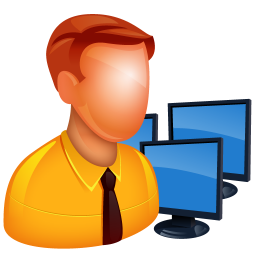
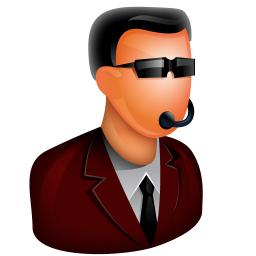
cambios

diff --git a/application/views/usuario/form.php b/application/views/usuario/form.php
@@ -1,17 +1,18 @@
 <script type="text/javascript" src="http://code.jquery.com/jquery-latest.min.js"></script>
 <script type="text/javascript">
 
-  function activate_match()
+  function activate_match($i)
  {
- 	var id = $('select#login').val();
- 	var ruta = "<?php echo base_url()?>assets_sistema/images/gallery/login/login"+id+".jpg";
+ 	var id = $i;
+ 	var ruta = "<?php echo base_url()?>assets_sistema/images/avatars/avatar"+id+".png";
  	document.getElementById('imagen_login').src = ruta;
  	document.getElementById('ref_login').href = ruta;
+ 	document.getElementById('imagen').value = "avatar"+id+".png";
  }
 
 </script>
 
-<?php $ruta_controller = base_url() . "index.php/admin/a_plantilla";?>
+<?php $ruta_controller = base_url() . "index.php/usuario/store";?>
 
 <div class="page-header">
 	<h1>
@@ -26,6 +27,37 @@
 
  <form action="<?php echo $ruta_controller;?>" method="post" enctype="multipart/form-data">
 
+
+ 	<div class="col-xs-12 col-sm-4">
+
+					    <div class="widget-box">
+							<div class="widget-header">
+								<h4 class="widget-title">Imagen Vista Previa</h4>
+							</div>	
+							 <div class="widget-body">
+								 <div class="widget-main">
+									<ul class="ace-thumbnails clearfix text-center" style="list-style-type: none;">
+										<li class="">		
+											<a id="ref_login" href="<?php echo base_url()?>assets_sistema/images/avatars/avatar.png" data-rel="colorbox" class="text-center">
+												
+							<img id = "imagen_login" name= "imagen_login" width="170" height="170" alt="170x170" src="<?php echo base_url()?>assets_sistema/images/avatars/avatar.png"/>
+												
+												<div class="text">
+													<div class="inner">Imagenes</div>
+												</div>
+											</a>
+										</li>
+										<a href="#" class="btn btn-app btn-purple" data-toggle='modal' data-target='#modal_perfil'>
+											<i class="ace-icon fa fa-refresh bigger-230"></i>
+											Cambiar
+										</a>
+									</ul>				
+								</div>
+						  </div>
+					    </div>
+				     </div>
+
+
 					<div class="col-xs-12 col-sm-4">
 						<div class="widget-box">
 							<div class="widget-header">
@@ -39,8 +71,7 @@
 										<span class="badge badge-transparent">
 											<i class="light-red ace-icon fa fa-asterisk"></i>
 										</span>
-										<select class="form-control" id="login" name="login"
-										onchange="activate_match()">		
+									<select class="form-control" id="id_permiso" name="id_permiso">
 										<?php foreach ($perfil as $row) 
 				                        { ?>	 
 									<option value=<?php echo $row->id;?>> <?php echo $row->nombre;?> </option>   
@@ -130,62 +161,7 @@
 					 </div>
 
 
-					 <div class="col-xs-12 col-sm-4">
-						<div class="widget-box">
-							<div class="widget-header">
-								<h4 class="widget-title">Tipo de logueo
-							</div>	
-
-							 <div class="widget-body">
-								 <div class="widget-main">
-									<div>
-										<label for="form-field-select-1">Seleccione</label>
-										<span class="badge badge-transparent">
-											<i class="light-red ace-icon fa fa-asterisk"></i>
-										</span>
-										<select class="form-control" id="login" name="login"
-										onchange="activate_match()">
-											
-										<?php for ($i = 1; $i <= 5; $i++) { 
-
-										if ($tipo == $i){?>
-										<option value=<?php echo $i;?> selected> Tipo <?php echo $i;?> </option>	   
-										<?php }else { ?>
-										<option value=<?php echo $i;?>> Tipo <?php echo $i;?> </option>	   
-										<?php }	
-										?>
-										<?php } ?>						
-						   		        </select>
-								     </div>	
-							     </div>
-							  </div>
-					    </div>
-
-					    <div class="widget-box">
-							<div class="widget-header">
-								<h4 class="widget-title">Imagen Vista Previa</h4>
-							</div>	
-							 <div class="widget-body">
-								 <div class="widget-main">
-									<ul class="ace-thumbnails clearfix text-center" style="list-style-type: none;">
-										<li class="">		
-											<a id="ref_login" href="<?php echo base_url()?>assets_sistema/images/avatars/avatar1.png" data-rel="colorbox" class="text-center">
-												
-												<img id = "imagen_login" width="170" height="170" alt="170x170" src="<?php echo base_url()?>assets_sistema/images/avatars/avatar1.png"/>
-												
-												<div class="text">
-													<div class="inner">Imagenes</div>
-												</div>
-											</a>
-										</li>
-									</ul>				
-								</div>
-						  </div>
-					    </div>
-				     </div>
-
-
-				   <input type="hidden" id="id" name="id" value="<?php echo @$id;?>">
+				   <input type="hidden" id="imagen" name="imagen" value="avatar">
 				   <div class="col-xs-12 text-center">
 	   					<button class="btn btn-rose btn-md radius-4">
 								<i class="ace-icon fa fa-floppy-o bigger-160"></i>
@@ -195,6 +171,40 @@
 
 				   
 </form>
+
+
+<div id="modal_perfil" class="modal fade" role="dialog">
+    <div class="modal-dialog">
+        <!-- Modal content-->
+        <div class="modal-content">
+            <div class="modal-header modalHeader">
+                <button type="button" class="close" data-dismiss="modal">×</button>
+                <h4 class="modal-title">Agregar Perfil</h4>
+            </div>
+            <form action="<?php echo base_url()?>index.php/perfil/store" class="form-horizontal" id="form_perfil" method="POST">
+	           
+	            	<div class="form-group">
+	            		<div class="modal-body">
+					<div class="col-md-12 col-sm-12">
+	            		
+	            		<?php for ($i = 1; $i <= 9; $i++) { ?>
+
+	            		<img id = "imagen_ciclo" name = "imagen_ciclo" width="50" height="50" alt="50x50" src="<?php echo base_url()?>assets_sistema/images/avatars/avatar<?=$i?>.png" onclick="activate_match(<?=$i?>)"/>
+	            	    <?php }?>
+
+	            	</div>
+	            </div><!-- fin modal-body -->
+	           
+
+	            </div><!-- fin modal-body -->
+	            <div class="modal-footer">
+	              
+	                <button type="button" class="btn btn-default" data-dismiss="modal">Cerrar</button>
+	            </div>
+            </form>
+        </div><!-- fin modal-content -->
+    </div><!-- fin modal-dialog -->
+</div> <!-- fin modal -->
 
 			   
 

diff --git a/application/controllers/Usuario.php b/application/controllers/Usuario.php
@@ -12,7 +12,7 @@ class Usuario extends CI_Controller {
          $this->load->model(array('configmodel','usuariomodel', 'perfilmodel'));
     }
 /*---------------------------------------------------------------------*/
-	public function index(){
+	public function index($tipo_bd = null){
 		//buscar tipo de logueo
 
       if (!$this->session->userdata('is_logued_in'))
@@ -20,6 +20,30 @@ class Usuario extends CI_Controller {
         redirect('login/', 'refresh');
        }else
        {
+
+       switch ($tipo_bd) 
+       {
+        case null:
+          if ($this->session->userdata('bd_activa')){
+              $data = array( 'bd_activa' => $this->session->userdata('bd_activa'),
+              'tipo_bd' =>  $this->session->userdata('tipo_bd'));
+             }else
+             {
+              $data = array( 'bd_activa' => 'default',
+              'tipo_bd' => 1);
+             }
+             break;
+         case 1:
+             $data = array( 'bd_activa' => 'default', 'tipo_bd' => $tipo_bd);    
+            break;
+         case 2:
+            $data = array( 'bd_activa' => 'admin21', 'tipo_bd' => $tipo_bd);
+            break;
+        }// fin switch
+
+        $this->session->set_userdata($data); 
+
+
          $usuario  = $this->usuariomodel->show_usuario();
 
          $arr_usuario = $usuario;
@@ -85,5 +109,35 @@ class Usuario extends CI_Controller {
         $this->load->view('dashboard/footer');
    }
 
+    public function store()
+    {
+         $data = array(
+                'createdat' => date('Y-m-d H:i:s'),
+                'updatedat' => date('Y-m-d H:i:s'),
+                'fecha_acceso' => date('Y-m-d H:i:s'),
+                'password' => '123456',
+                'login' => $this->input->post('nombre', TRUE),
+                'email' => $this->input->post('email', TRUE),
+                'id_permiso' => $this->input->post('id_permiso', TRUE),    
+            );
 
+
+            $datapersonal = array(
+                'createdat' => date('Y-m-d H:i:s'),
+                'updatedat' => date('Y-m-d H:i:s'),
+                'cedula' => $this->input->post('cedula', TRUE),
+                'nombre' => $this->input->post('nombre', TRUE),
+                'apellido' => $this->input->post('apellido', TRUE),
+
+            );
+
+        if($this->usuariomodel->crear_usuario($data, $datapersonal))
+        {  
+            redirect('usuario/','refresh');
+        }
+        else
+        {       
+            redirect('usuario/','refresh');
+        }
+    }
 }

diff --git a/application/models/Usuariomodel.php b/application/models/Usuariomodel.php
@@ -31,13 +31,15 @@ class Usuariomodel extends CI_Model {
 
     public function show_usuario()
     {
-       $this->db->select('u.*, p.nombre as permiso');
-       $this->db->from('usuario as u');
-       $this->db->join('perfil as p', 'u.id_permiso = p.id');
+       $db_admin = $this->load->database($this->session->userdata('bd_activa'), TRUE);
 
-       $result =  $this->db->get();
+       $db_admin->select('u.*, p.nombre as permiso');
+       $db_admin->from('usuario as u');
+       $db_admin->join('perfil as p', 'u.id_permiso = p.id');
 
-        return $result->result();
+      return $db_admin->get()->result();
+
+      $db_admin->close();
     } 
 
      public function actualizar_registro($id,$datos)
@@ -52,5 +54,30 @@ class Usuariomodel extends CI_Model {
         return false;
       }
     } 
+
+
+     public function crear_usuario($datos, $datospersonal)
+    {
+     $db_admin = $this->load->database($this->session->userdata('bd_activa'), TRUE);
+
+    if($db_admin->insert('usuario',$datos))
+      {
+        $db_admin->where('email', $datos['email']);
+        $query = $db_admin->get('usuario');
+
+        $queryresult = $query->row();
+        $datospersonal['id_usuario'] = $queryresult->id;
+
+       if($db_admin->insert('usuario_info',$datospersonal))
+      {  return true;
+      }else
+      {  return false; } 
+      
+      }else
+      {
+        return false;
+      }
+      $db_admin->close();
+    }
 
 }

diff --git a/application/views/usuario/index.php b/application/views/usuario/index.php
@@ -9,16 +9,35 @@
 </div><!-- /.page-header -->
 
 <?php //print_r ($this->session->userdata('arr_usuarios'));?>
+ <div class="row no-gutters">
+		<div class="col-md-10 col-sm-10">
 
-<div class="row no-gutters">
-	<div class="col-xs-12">
-	    <div class="row no-gutters">	
-
-		<div class="col-xs-offset-9 col-xs-3 text-center">
-				<a href="<?= base_url().'index.php/nuevo_u' ?>" class="btn btn-purple">Usuario<i class="fa fa-plus"></i></a>
-			</div>
+		<a href="<?= base_url().'index.php/usuario/index/1'?>" 
+		class="btn btn-app btn-<?php echo ($this->session->userdata('tipo_bd')==1)?'primary':'default'?>">
+		<i class="ace-icon fa fa-tachometer bigger-250"></i>Default&nbsp;
+		</a>
+		
+			<a href="<?= base_url().'index.php/usuario/index/2'?>" class="btn btn-app btn-<?php echo ($this->session->userdata('tipo_bd')==2)?'primary':'default'?>">
+						<i class="ace-icon fa fa-eye bigger-250"></i>
+						Admin&nbsp;
+			</a>
 		</div>
+
+
+		<div class="col-sm-2 col-md-2">				
+					<a href="<?= base_url().'index.php/nuevo_u'?>" class="btn btn-app btn-success">
+						<i class="ace-icon fa fa-fire bigger-230"></i>
+						+ Usuario&nbsp;
+					</a>
+		</div>	
+    </div>
+
+
+     
 		<br/>
+  <div class="row no-gutters">
+	<div class="col-xs-12">
+
 		<table class="table table-bordered table-responsive" id="tabla">
 			<thead>
 				<tr>

diff --git a/application/models/Menumodel.php b/application/models/Menumodel.php
@@ -60,8 +60,6 @@ class Menumodel extends CI_Model {
 
     public function show_menu_perfil()
     {
-      $db_admin = $this->load->database($this->session->userdata('bd_activa'), TRUE);
-
       $sql = "
        WITH RECURSIVE tree_table(id,nombre,id_padre,id_tipo,link,icono,ruta,con) AS 
       (
